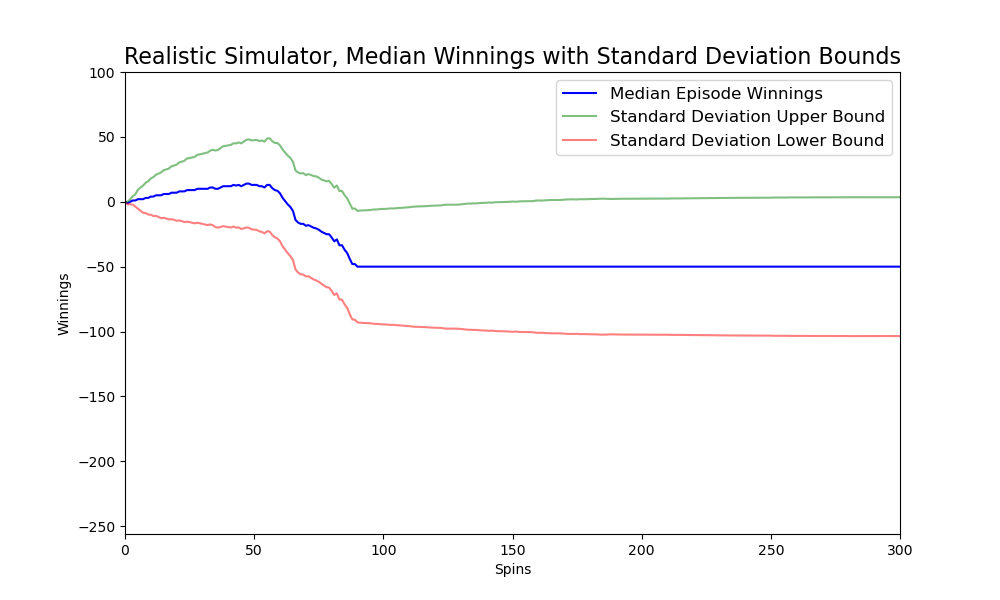
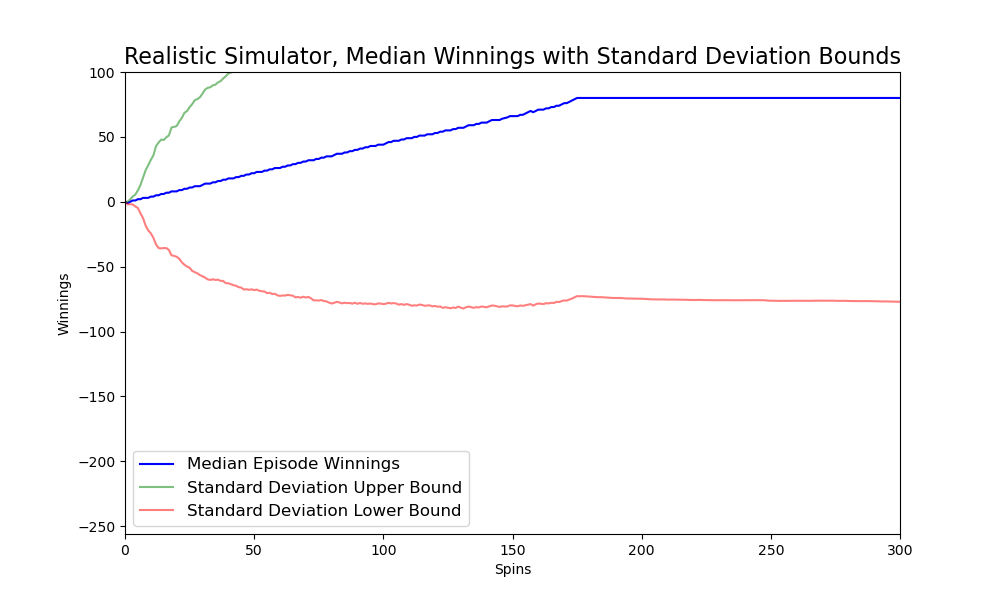
Refactor for numpy arrays

diff --git a/martingale/martingale.py b/martingale/martingale.py
@@ -66,52 +66,52 @@ def get_spin_result(win_prob):
 
 def bach_betting_strategy(win_prob):
     episode_winnings = 0
-    winnings = [0]
+    winnings = np.zeros(1001)
     bet_amount = 1
 
-    for _ in range(1000):
+    for i in range(1, 1001):
         if episode_winnings >= 80:
-            winnings.append(episode_winnings)
+            winnings[i] = episode_winnings
         else:
             won = get_spin_result(win_prob)
             if won:
-                episode_winnings = episode_winnings + bet_amount
-                winnings.append(episode_winnings)
+                episode_winnings += bet_amount
+                winnings[i] = episode_winnings
                 bet_amount = 1
             else:
-                episode_winnings = episode_winnings - bet_amount
-                winnings.append(episode_winnings)
+                episode_winnings -= bet_amount
+                winnings[i] = episode_winnings
                 bet_amount =  bet_amount * 2
 
 
-    return np.array(winnings)
+    return winnings
 
 def realistic_betting_strategy(win_prob):
     episode_winnings = 0
-    winnings = [0]
+    winnings = np.zeros(1001)
     bet_amount = 1
-    bank_roll = 50
+    bank_roll = 256
 
-    for _ in range(1000):
-        if episode_winnings >= 80 or episode_winnings <= (-50):
-            winnings.append(episode_winnings)
+    for i in range(1, 1001):
+        if episode_winnings >= 80 or episode_winnings <= (-256):
+            winnings[i] = episode_winnings
         else:
             won = get_spin_result(win_prob)
             if won:
                 episode_winnings += bet_amount
                 bank_roll += bet_amount
-                winnings.append(episode_winnings)
+                winnings[i] = episode_winnings
                 bet_amount = 1
             else:
                 episode_winnings -= bet_amount
                 bank_roll -= bet_amount
-                winnings.append(episode_winnings)
+                winnings[i] = episode_winnings
                 if (bank_roll - (bet_amount*2)) > 0:
                     bet_amount =  bet_amount * 2
                 else:
                     bet_amount = bank_roll
 
-    return np.array(winnings)
+    return winnings
 
 def simple_simulator(number_of_episodes, win_prob):
     episodes = []
